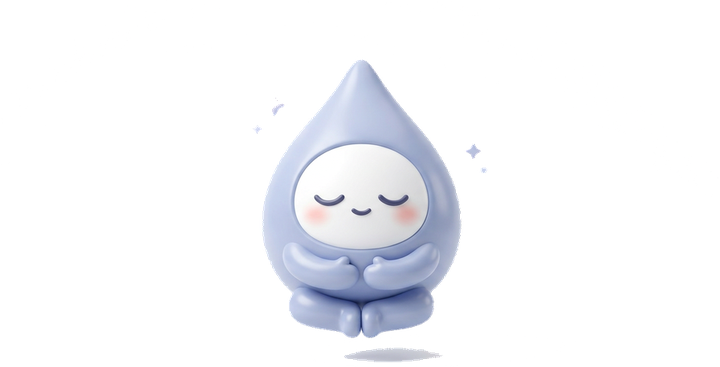
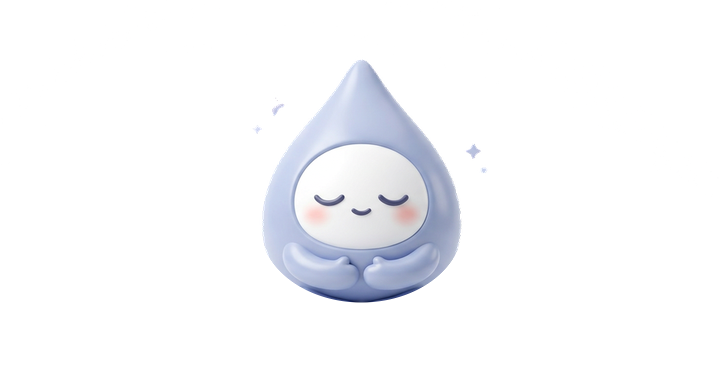
Remove legs from Dibitishka mascot poses

Changed region(s): [[0.3667, 0.7193, 0.6417, 0.9891]]

diff --git a/README.md b/README.md
@@ -7,7 +7,7 @@
 - **Веб**: статика в `app/` → GitHub Pages; в Телеграме открывается как Mini App.
 - **Бот**: `bot/` (Node.js + grammY) — актуализация любого блока контента, рассылки
   с вырезанием белого фона, коды входа для веба, пуши-напоминания, Tribute.
-- **Маскот**: дибитишка — слезинка с big eyes и румянцем, сопровождает пользователя,
+- **Маскот**: дибитишка — слезинка без ножек, с big eyes и румянцем, сопровождает пользователя,
   оставляет точки контакта и приходит в пушах.
 - **Тетрадь**: рабочая тетрадь ДПТ, переписанная от лица дибитишки; печатается из `workbook.html`
   или заказывается в мерче (заглушка).
